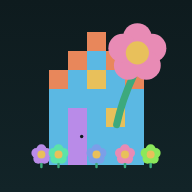
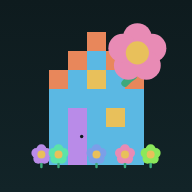
Icône : raccourcit la tige de la fleur du toit
La tige traversait la fenêtre en descendant trop bas ; elle reste
maintenant contenue dans la zone du toit, comme sur la version
d'origine. Bump du cache SW.

Changed region(s): [[0.5625, 0.4062, 0.7188, 0.6875]]

diff --git a/sw.js b/sw.js
@@ -2,7 +2,7 @@
    Avantage : chaque push sur GitHub met l'app à jour dès la prochaine
    ouverture avec connexion, et l'app reste utilisable hors ligne. */
 
-const CACHE = "maison-v9";
+const CACHE = "maison-v10";
 const ASSETS = [
   "./",
   "./index.html",